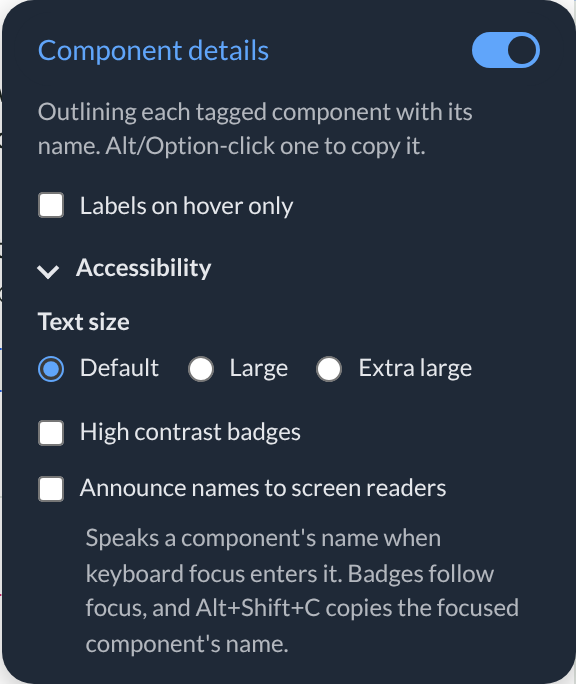
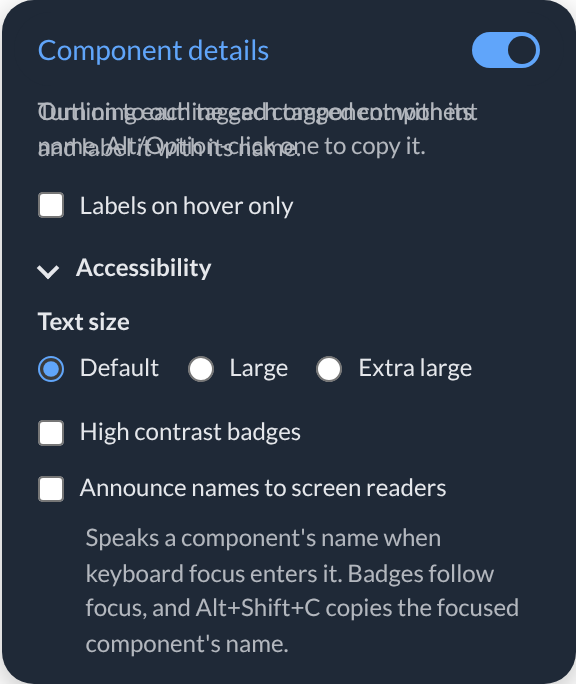
Transparent accessibility screenshot at natural size
Claude-Session: https://claude.ai/code/session_01C5tdNPtiBz67BbC3PjHpHV

diff --git a/README.md b/README.md
@@ -26,7 +26,7 @@ No badge on something? It is untagged, so say that: "the banner on /customers is
 
 The toggle card has a collapsed Accessibility section with text size, high contrast badges and screen reader announcements.
 
-![The Accessibility section of the Component details card](docs/images/accessibility-panel.png)
+<img src="docs/images/accessibility-panel.png" alt="The Accessibility section of the Component details card" width="288">
 
 More in the [reference](docs/reference.md#accessibility).
 
